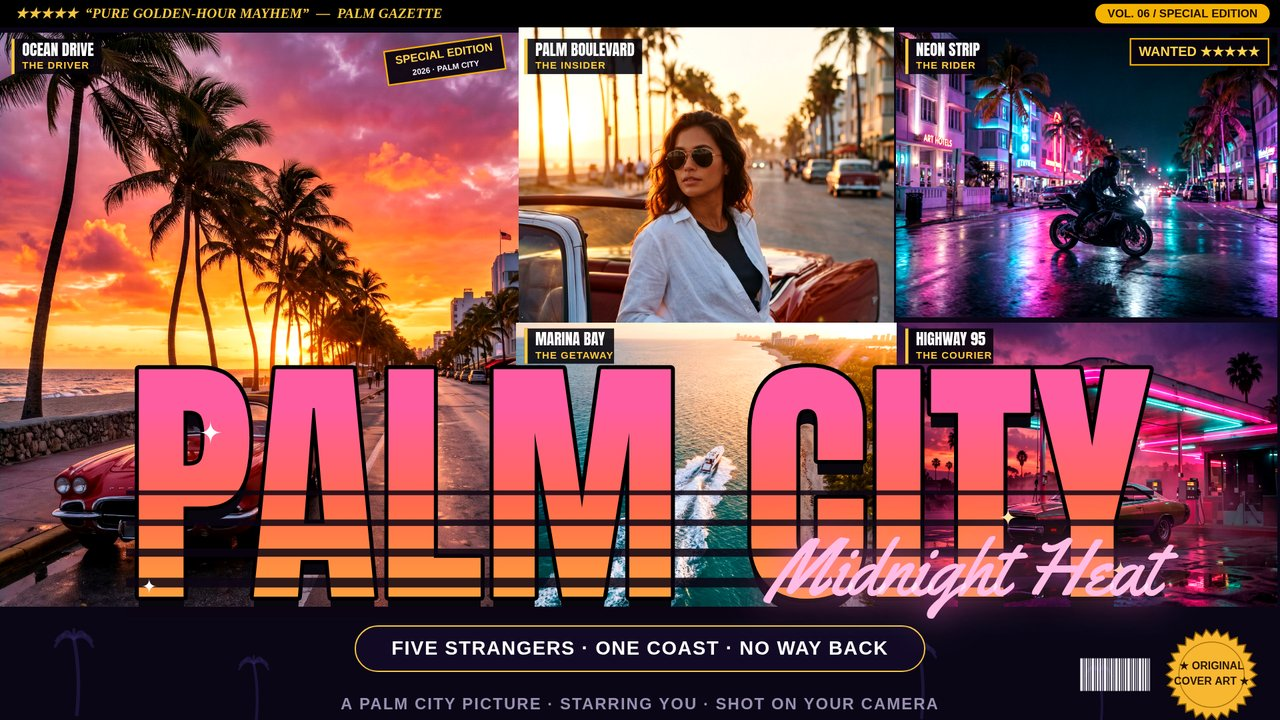
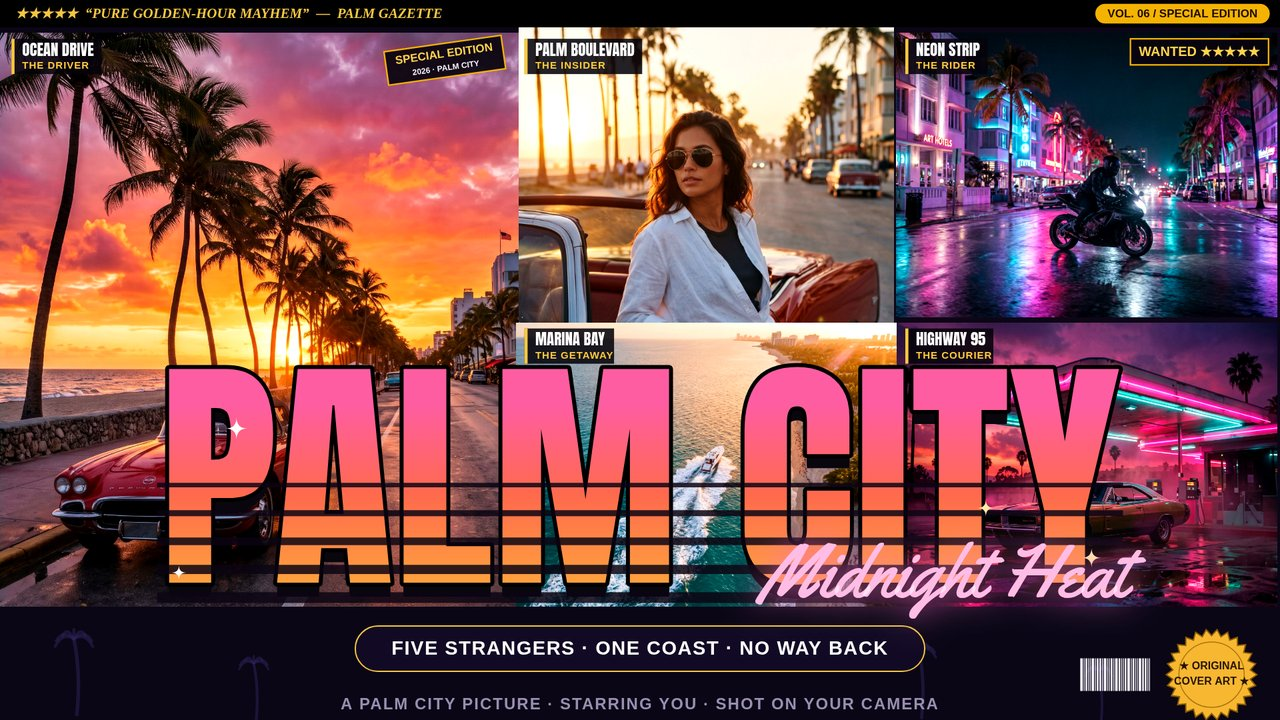
Micro patch (v11): shrink PALM CITY title slightly in 16:9 (80% -> 75% width)

Changed region(s): [[0.0938, 0.4889, 0.9375, 0.8556]]

diff --git a/app/poster.js b/app/poster.js
@@ -489,8 +489,11 @@
     function titleFont(s) { return s + 'px Anton, "Arial Narrow", sans-serif'; }
     /* Fit the title to exactly 80% of the poster width (band 75-85%):
      * measure once at a probe size, then scale by the exact ratio, so the
-     * measured width lands in-band on every cover. */
-    var targetW = W * 0.80, minW = W * 0.75, maxW = W * 0.85;
+     * measured width lands in-band on every cover.
+     * v11 micro patch: the 16:9 PALM CITY title was a touch too big, so
+     * it alone fits to 75% (the band's lower end) — 4:5 / 1:1 stay at 80%. */
+    var targetFrac = cover.aspect === '16:9' ? 0.75 : 0.80;
+    var targetW = W * targetFrac, minW = W * 0.75, maxW = W * 0.85;
     var size = W * 0.21;
     ctx.font = titleFont(size);
     var w0 = ctx.measureText(title).width;
